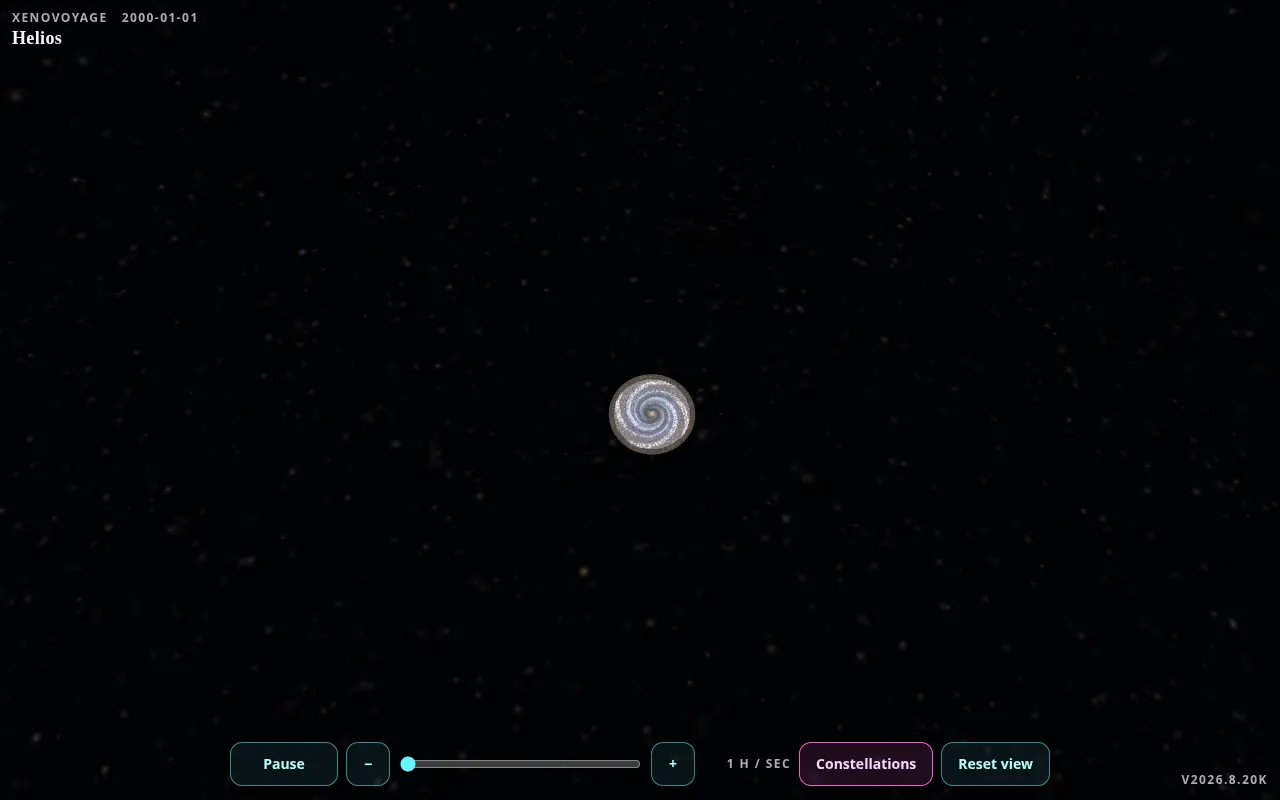
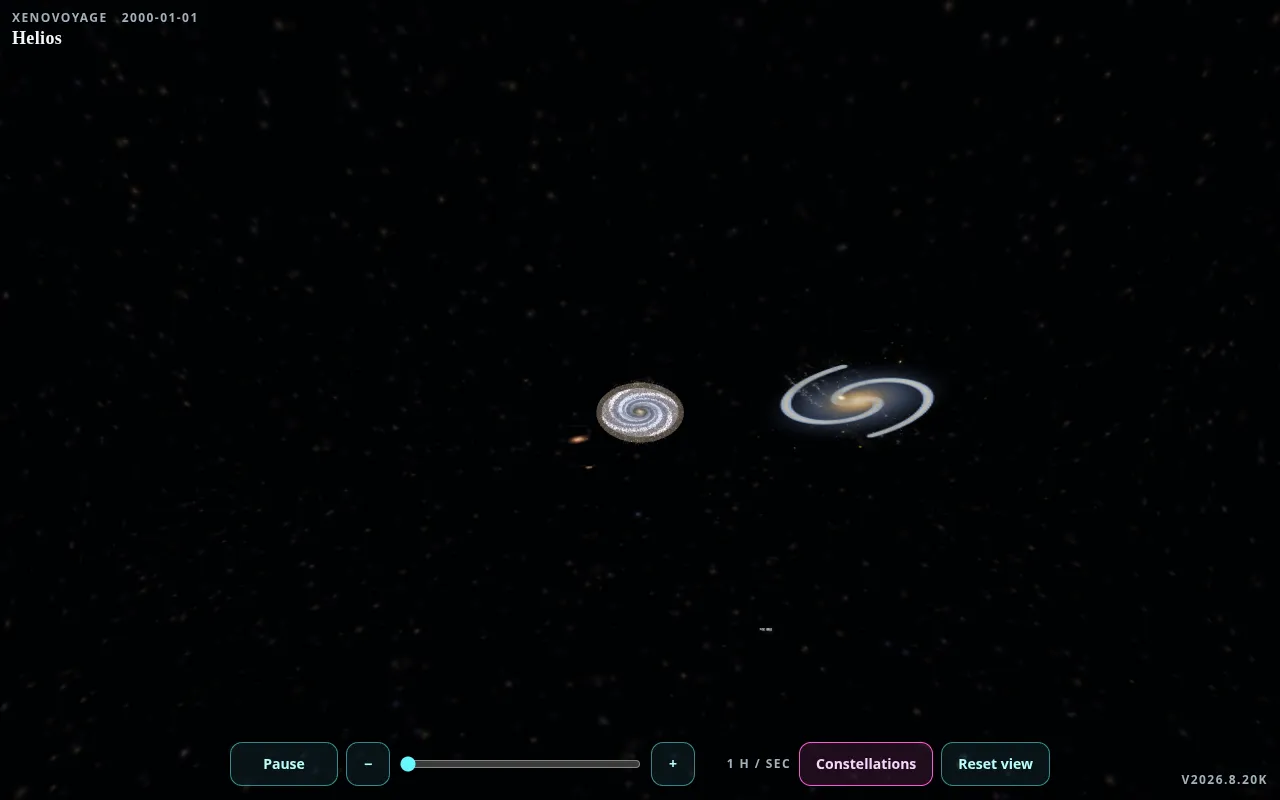
Make Andromeda a readable spiral beside the Milky Way
Keep a dedicated canvas two-arm spiral under the Spitzer overlay so
neighborhood and Local Group stills show M31 as a galaxy, not a blur.
Recapture only those two extra-zoom stills.

Changed region(s): [[0.5938, 0.4375, 0.75, 0.5625], [0.4375, 0.4688, 0.5625, 0.5938]]

diff --git a/js/galaxy.js b/js/galaxy.js
@@ -476,7 +476,8 @@ function hubSprite(THREE) {
 }
 
 function galaxyKind(id) {
-  if (id === "m31" || id === "m33") return "spiral";
+  if (id === "m31") return "andromeda";
+  if (id === "m33") return "spiral";
   if (id === "lmc") return "lmc";
   if (id === "smc" || id === "wlm" || id === "ic10" || id === "ngc6822") return "irregular";
   return "elliptical";
@@ -489,7 +490,45 @@ function galaxySprite(THREE, kind, seed = 1) {
   const ctx = canvas.getContext("2d");
   const rand = seedRandom(7000 + seed * 97);
   ctx.translate(128, 128);
-  if (kind === "spiral") {
+  if (kind === "andromeda") {
+    ctx.rotate(-0.38);
+    ctx.scale(1, 0.62);
+    const disk = ctx.createRadialGradient(0, 0, 4, 0, 0, 120);
+    disk.addColorStop(0, "rgba(255, 236, 200, 1)");
+    disk.addColorStop(0.14, "rgba(230, 200, 160, 0.7)");
+    disk.addColorStop(0.45, "rgba(140, 170, 230, 0.42)");
+    disk.addColorStop(1, "rgba(40, 50, 90, 0)");
+    ctx.fillStyle = disk;
+    ctx.beginPath();
+    ctx.arc(0, 0, 120, 0, Math.PI * 2);
+    ctx.fill();
+    ctx.lineCap = "round";
+    for (let arm = 0; arm < 2; arm += 1) {
+      ctx.beginPath();
+      for (let i = 0; i <= 64; i += 1) {
+        const t = i / 64;
+        const a = arm * Math.PI + t * 4.8;
+        const r = 14 + t * 102;
+        const x = Math.cos(a) * r;
+        const y = Math.sin(a) * r;
+        if (i === 0) ctx.moveTo(x, y);
+        else ctx.lineTo(x, y);
+      }
+      ctx.strokeStyle = "rgba(190, 220, 255, 0.88)";
+      ctx.lineWidth = 13;
+      ctx.stroke();
+      ctx.strokeStyle = "rgba(255, 220, 170, 0.5)";
+      ctx.lineWidth = 5;
+      ctx.stroke();
+    }
+    const bulge = ctx.createRadialGradient(0, 0, 2, 0, 0, 34);
+    bulge.addColorStop(0, "rgba(255, 244, 214, 1)");
+    bulge.addColorStop(1, "rgba(255, 176, 80, 0)");
+    ctx.fillStyle = bulge;
+    ctx.beginPath();
+    ctx.arc(0, 0, 34, 0, Math.PI * 2);
+    ctx.fill();
+  } else if (kind === "spiral") {
     ctx.rotate(-0.5 + rand() * 0.2);
     ctx.scale(1, 0.42 + rand() * 0.08);
     const disk = ctx.createRadialGradient(0, 0, 4, 0, 0, 118);
@@ -912,7 +951,7 @@ function createSunPin(THREE, group) {
 function neighborSpriteSize(neighbor) {
   const visual = visualNeighborhood(neighbor.distanceKpc);
   const size = (neighbor.radiusKpc / neighbor.distanceKpc) * visual * 2.2;
-  if (neighbor.id === "m31") return Math.max(7200, size * 7.2);
+  if (neighbor.id === "m31") return Math.max(8600, size * 8.4);
   return Math.max(160, size);
 }
 
@@ -932,22 +971,35 @@ function createNeighbors(THREE, group, maps) {
       toneMapped: false,
     }));
     sprite.renderOrder = 4;
-    if (neighbor.id === "m31") {
-      new THREE.TextureLoader().load(SKY_ASSETS.andromeda, (loaded) => {
-        loaded.colorSpace = THREE.SRGBColorSpace;
-        loaded.anisotropy = 4;
-        sprite.material.map = loaded;
-        sprite.material.needsUpdate = true;
-      });
-    }
     sprite.position.set(at.x, at.y, at.z);
     const boost = neighbor.id === "m31" ? 1 : neighbor.id === "lmc" ? 1.85 : neighbor.id === "smc" ? 1.7 : 1.2;
     const size = neighborSpriteSize(neighbor) * boost;
-    const aspect = neighbor.id === "m31" ? 0.42 : neighbor.id === "m33" ? 0.46 : 0.68;
+    const aspect = neighbor.id === "m31" ? 0.58 : neighbor.id === "m33" ? 0.46 : 0.68;
     sprite.scale.set(size, size * aspect, 1);
     sprite.name = neighbor.id;
     sprite.frustumCulled = false;
     cluster.add(sprite);
+    if (neighbor.id === "m31") {
+      new THREE.TextureLoader().load(SKY_ASSETS.andromeda, (loaded) => {
+        loaded.colorSpace = THREE.SRGBColorSpace;
+        loaded.anisotropy = 4;
+        const overlay = new THREE.Sprite(new THREE.SpriteMaterial({
+          map: loaded,
+          color: 0xfff2e4,
+          transparent: true,
+          depthWrite: false,
+          depthTest: false,
+          opacity: 0.78,
+          toneMapped: false,
+        }));
+        overlay.position.set(at.x, at.y, at.z);
+        overlay.scale.set(size, size * aspect, 1);
+        overlay.name = "m31-spitzer";
+        overlay.renderOrder = 5;
+        overlay.frustumCulled = false;
+        cluster.add(overlay);
+      });
+    }
     const label = neighbor.messier ? `${neighbor.name} (${neighbor.messier})` : neighbor.name;
     const lift = size * aspect * 0.65 + 48;
     const side = neighbor.id === "smc" ? 180 : neighbor.id === "lmc" ? -80 : 0;
@@ -1469,6 +1521,7 @@ export function createGalaxyLayer(THREE) {
   group.visible = false;
   const maps = {
     spiral: galaxySprite(THREE, "spiral", 1),
+    andromeda: galaxySprite(THREE, "andromeda", 6),
     elliptical: galaxySprite(THREE, "elliptical", 2),
     irregular: galaxySprite(THREE, "irregular", 3),
     lmc: galaxySprite(THREE, "lmc", 4),
